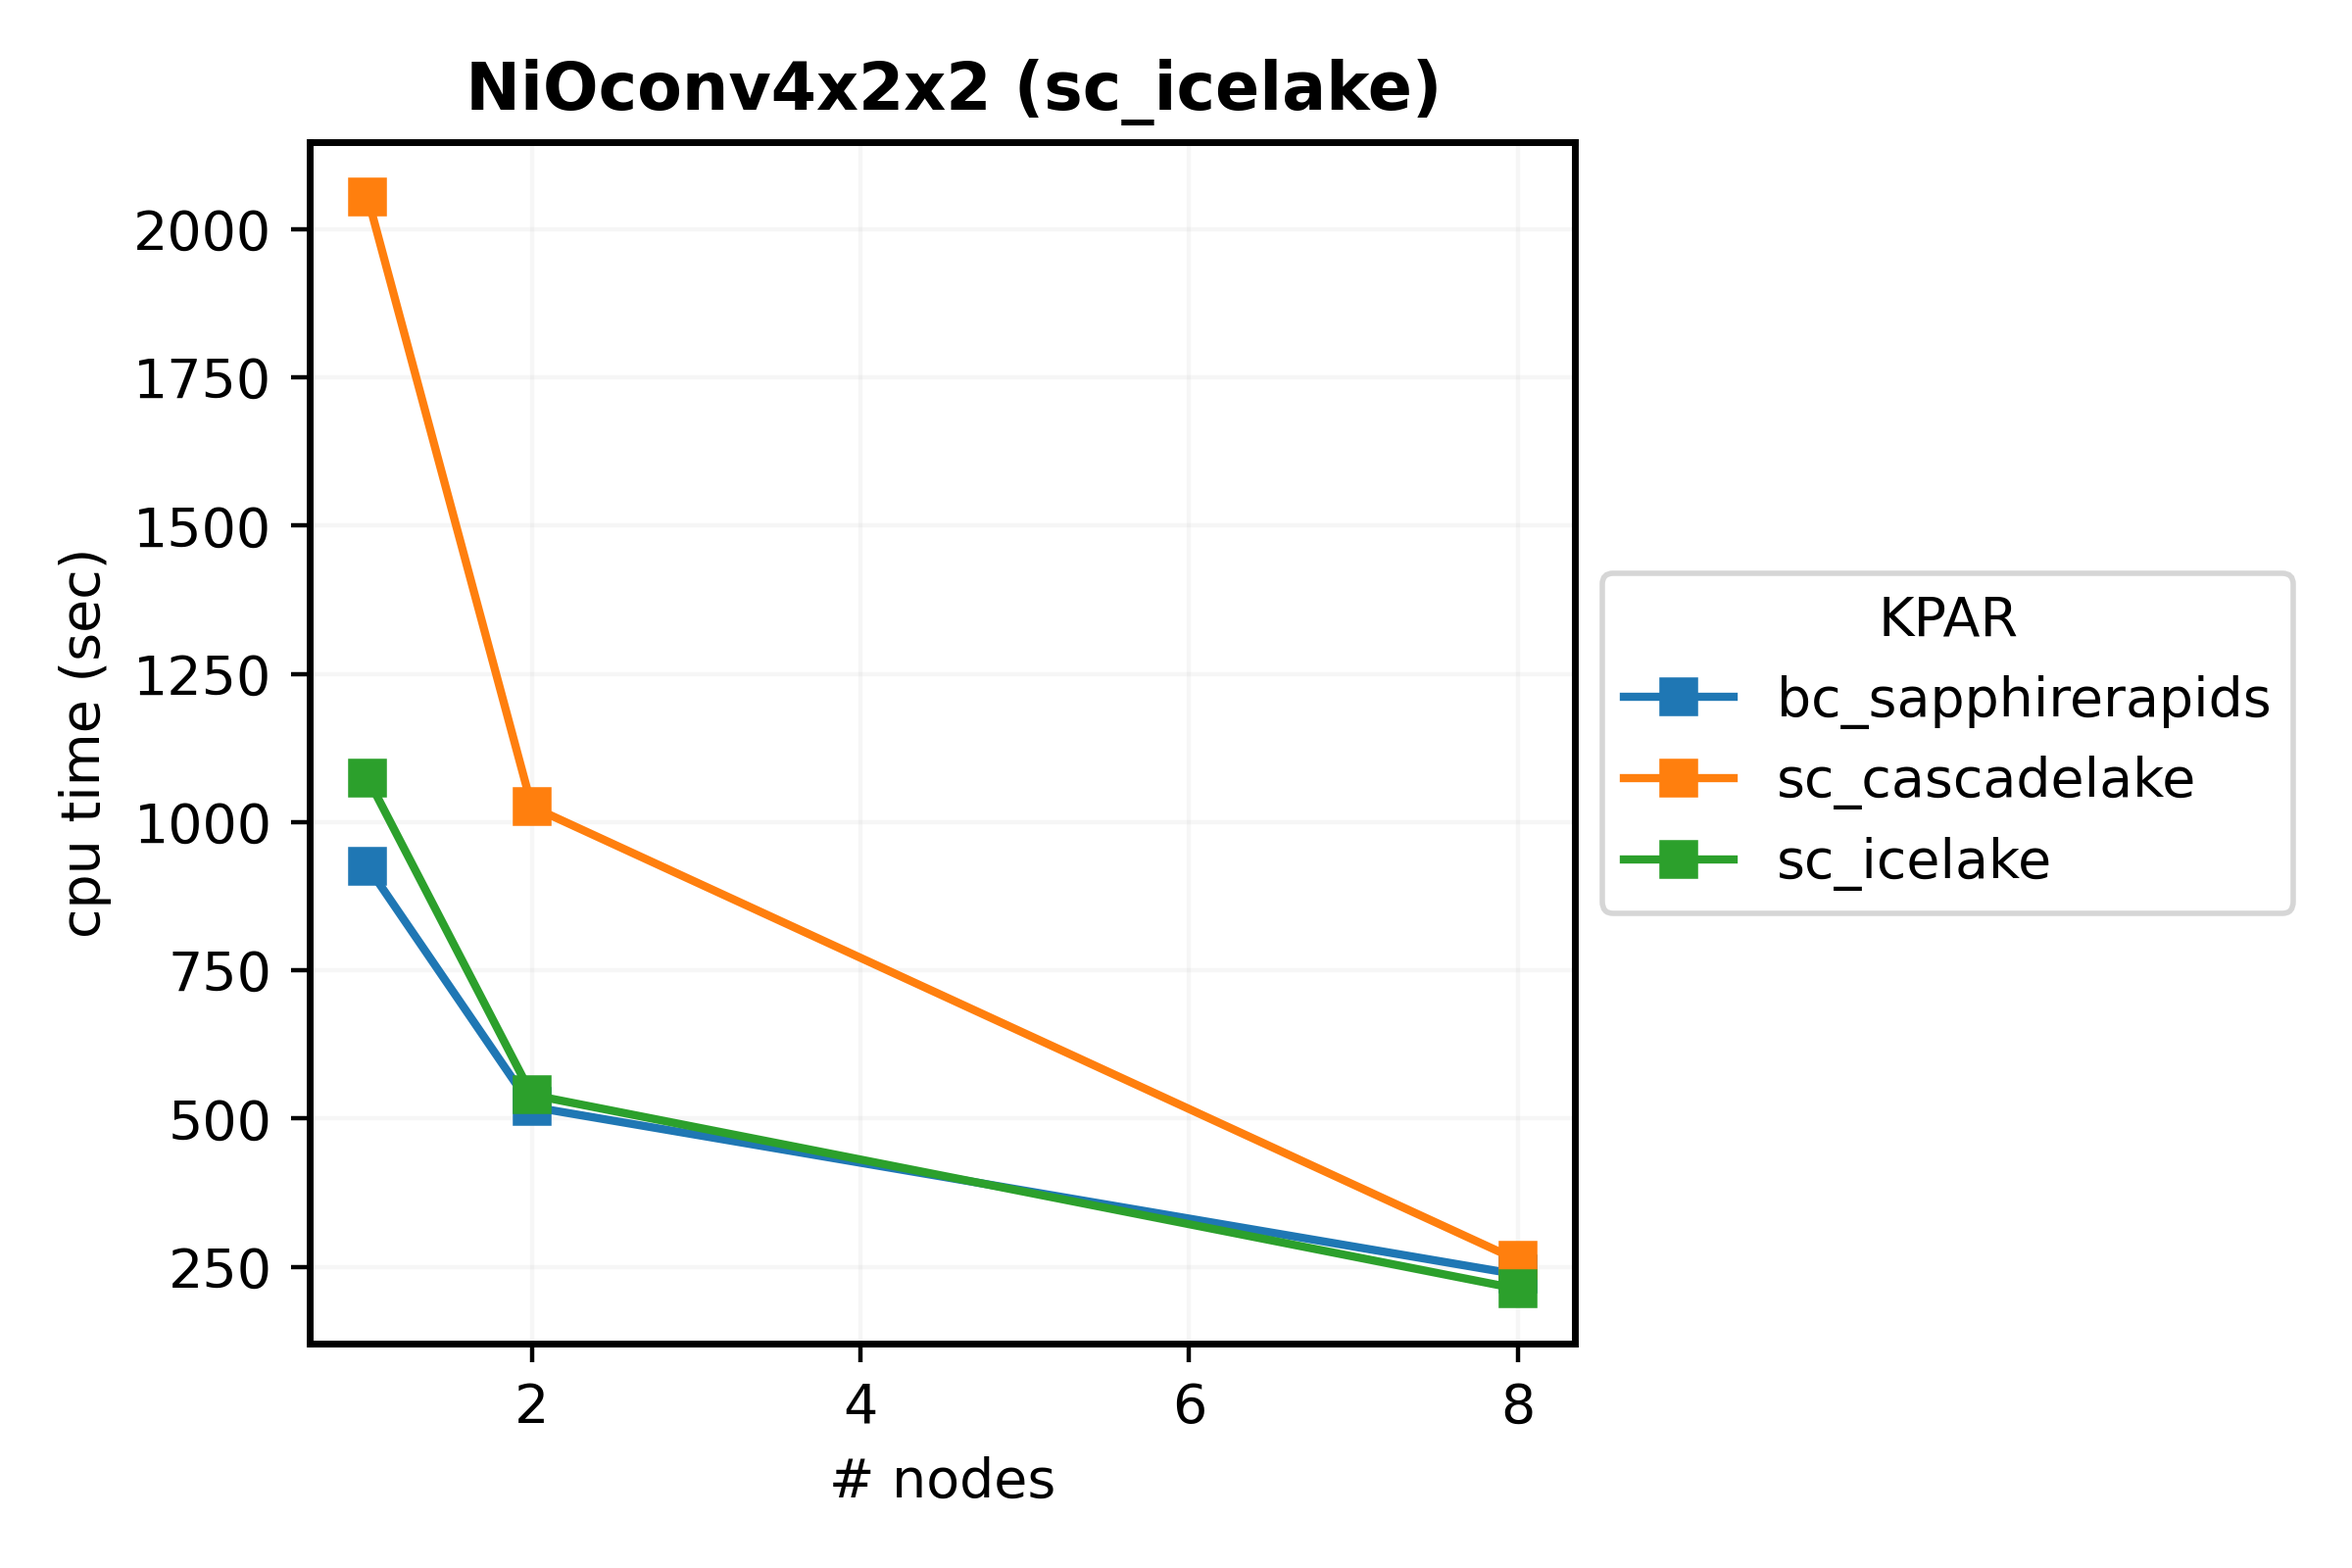
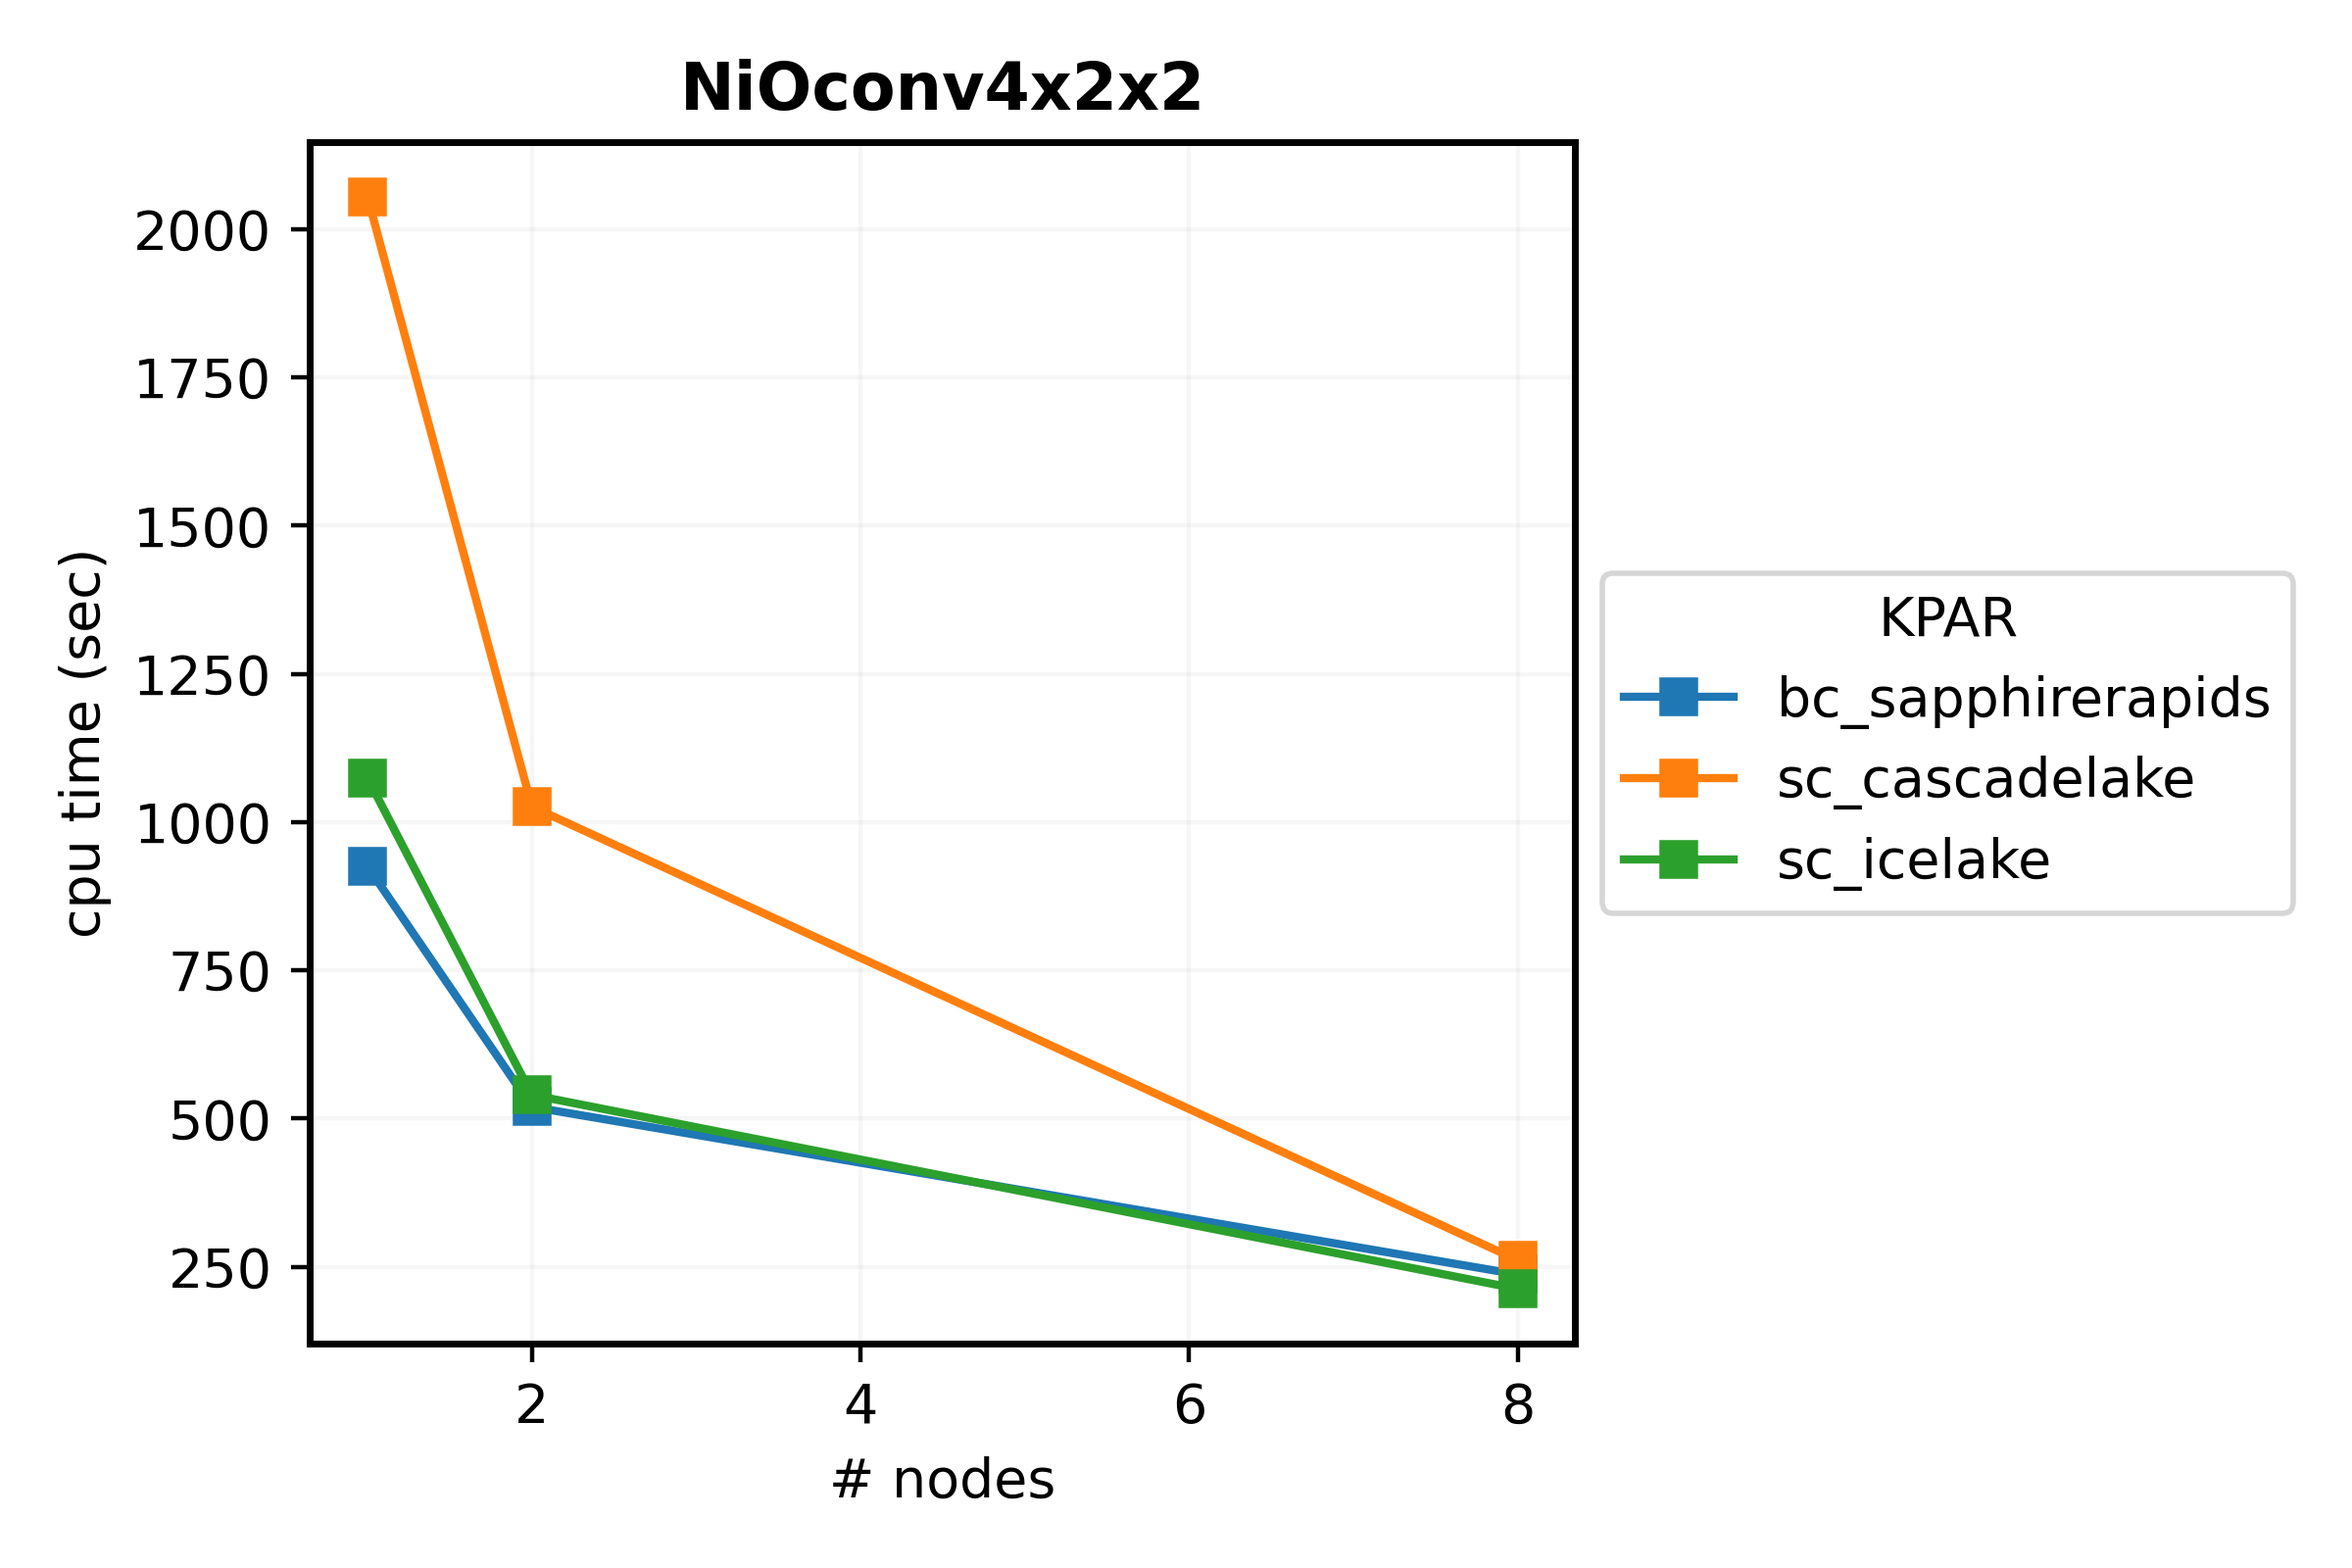
2024-03-18

Changed region(s): [[0.1875, 0.0312, 0.625, 0.0938]]

diff --git a/scripts/plot_kpar_times.py b/scripts/plot_kpar_times.py
@@ -15,7 +15,7 @@ for system in systems:
         plt.plot(data.num_nodes, data.kparnodes, label=hardware_type, marker='s')
     plt.xlabel("# nodes")
     plt.ylabel("cpu time (sec)")
-    plt.title(f" {system} ({hardware_type})", weight='bold')
+    plt.title(f"{system}", weight='bold')
     plt.legend(title='KPAR', loc='center left', bbox_to_anchor=(1, 0.5))
     plt.grid(alpha=0.1)
     plt.tight_layout()

diff --git a/psu_roarcollab/allocation_balances.py b/psu_roarcollab/allocation_balances.py
@@ -33,6 +33,7 @@ def plot_data(dataframe, allocations, resultspath):
         plt.grid(visible=True, alpha = 0.25, axis='y')
         plt.ticklabel_format(style='plain', axis='y')
         
+        plt.title(f"as of {date.today().strftime('%a %b %d, %Y')}")
         plt.xlabel("Time")
         plt.ylabel('CPU Hours')
         plt.tight_layout()

diff --git a/README.md b/README.md
@@ -11,3 +11,4 @@ Information about the Penn State Roar Collab HPC. Useful for tracking Sinnott gr
 |*sapphirerapids*   |basic      |64         |255                |3.98               |open, sla-prio, burst  |
 |*icelake*          |standard   |48         |500                |10.42              |open, sla-prio, burst  |
 |*cascadelake*      |standard   |48         |350                |7.29               |open, sla-prio, burst  |
+
